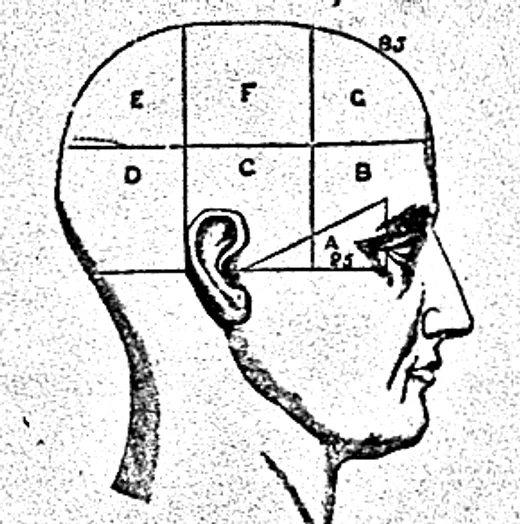
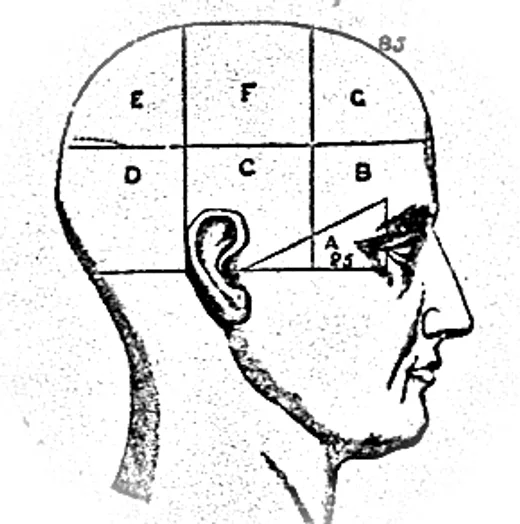
feat(web): section art program + electric pricing field
Every remaining section gets a meaningful, captioned visual — no decoration
without an explanation (the museum-catalog rule):

- № 01 The problem: three phrenological head views (front/top/profile,
  Wellcome V0009485, flat-fielded like the hero) labeled "what Claude /
  ChatGPT / Cursor knows" — fig. 2, three tools, three partial strangers
- № 02 How it works: PipelineStrip — the whole system as one drawn line
  (chats/code/git → persnallyd on your machine → Claude/Cursor/agents),
  instrument style, blue flow arrows
- № 04 Under the hood: the provenance card's evidence list becomes a
  connected tree — blue spine + elbows from the claim to its 3 events
- № 07 The difference: emblem doubled to 210px with fig-caption ("the
  model of you, measured — held by its subject"); reprocessed with edge
  fade so the crop boundary melts into the page
- № 08 Pricing: the page's one full-bleed color moment — the electric
  field (Hermes-style), paper serif display, FREE·PRO·TEAMS ladder,
  paper plates on ultramarine; ProCard drops its (invisible-on-blue)
  electric border

Compare/trust/see-the-difference deliberately stay art-free: the table
and terminals ARE their visuals. Footer credit covers both Wellcome
plates.

diff --git a/web/src/app/page.tsx b/web/src/app/page.tsx
@@ -267,6 +267,24 @@ function Wedge() {
             every session. Each tool meets you as a stranger — and the vendors can&apos;t fix it,
             because their business is keeping you inside their walls.
           </p>
+          <figure className="mt-10">
+            <div className="grid grid-cols-3 items-end gap-4 bg-paper">
+              {[
+                { src: "/art/head-front.webp", tool: "what Claude knows" },
+                { src: "/art/head-top.webp", tool: "what ChatGPT knows" },
+                { src: "/art/head-profile.webp", tool: "what Cursor knows" },
+              ].map((h) => (
+                <div key={h.src} className="text-center">
+                  {/* eslint-disable-next-line @next/next/no-img-element */}
+                  <img src={h.src} alt="" aria-hidden width={480} height={480} className="mx-auto w-full max-w-[150px] mix-blend-multiply" />
+                  <p className="mt-2 font-mono text-[10px] uppercase tracking-[0.1em] text-mute">{h.tool}</p>
+                </div>
+              ))}
+            </div>
+            <figcaption className="mt-4 border-t border-ink/30 pt-3 font-mono text-[10px] uppercase tracking-[0.14em] text-mute">
+              Fig. 2 — three tools, three partial strangers. The same you.
+            </figcaption>
+          </figure>
         </div>
         <RepetitionFeed />
       </div>
@@ -275,6 +293,45 @@ function Wedge() {
 }
 
 /* ── № 02 · How it works ─────────────────────────────────────── */
+
+/* the whole system in one drawn line: your history → the daemon on your
+   machine → every AI. Same instrument language as the gauge. */
+function PipelineStrip() {
+  const src = ["your chats", "your code", "your git"];
+  const dst = ["Claude", "Cursor", "your agents"];
+  return (
+    <svg viewBox="0 0 900 150" role="img" aria-label="Your chats, code, and git flow into the persnallyd daemon on your machine, and out to Claude, Cursor, and your agents" className="mt-10 hidden w-full text-ink md:block">
+      {src.map((s, i) => (
+        <g key={s}>
+          <text x={120} y={35 + i * 40} textAnchor="end" className="font-mono" fontSize={15} fill="currentColor" opacity={0.7}>
+            {s}
+          </text>
+          <path d={`M 132 ${30 + i * 40} L 210 ${30 + i * 40} L 260 70 L 330 70`} fill="none" stroke="var(--color-electric)" strokeWidth={1.5} opacity={0.75} />
+        </g>
+      ))}
+      <rect x={335} y={38} width={230} height={64} fill="none" stroke="currentColor" strokeWidth={1.5} />
+      <rect x={341} y={44} width={218} height={52} fill="none" stroke="currentColor" strokeWidth={0.75} opacity={0.4} />
+      <text x={450} y={66} textAnchor="middle" className="font-mono" fontSize={16} fill="currentColor">
+        persnallyd
+      </text>
+      <text x={450} y={86} textAnchor="middle" className="font-mono" fontSize={11.5} fill="var(--color-electric)">
+        on your machine
+      </text>
+      {dst.map((d, i) => (
+        <g key={d}>
+          <path d={`M 570 70 L 640 ${30 + i * 40} L 700 ${30 + i * 40}`} fill="none" stroke="var(--color-electric)" strokeWidth={1.5} opacity={0.75} />
+          <path d={`M 700 ${30 + i * 40} l -9 -4.5 v 9 z`} fill="var(--color-electric)" opacity={0.85} />
+          <text x={712} y={35 + i * 40} className="font-mono" fontSize={15} fill="currentColor" opacity={0.85}>
+            {d}
+          </text>
+        </g>
+      ))}
+      <text x={450} y={138} textAnchor="middle" className="font-mono" fontSize={11} fill="currentColor" opacity={0.55}>
+        one model of you · read everywhere · written nowhere else
+      </text>
+    </svg>
+  );
+}
 
 function HowItWorks() {
   const steps = [
@@ -303,8 +360,9 @@ function HowItWorks() {
   return (
     <Section id="how" className="py-24">
       <SectionHead n="02" eyebrow="How it works" title="Your context, in every tool you touch." />
+      <PipelineStrip />
 
-      <div className="mt-12 grid gap-5 lg:grid-cols-3">
+      <div className="mt-10 grid gap-5 lg:grid-cols-3">
         {steps.map((s) => (
           <div key={s.k} className="plate flex flex-col p-6">
             <div className="flex items-baseline justify-between border-b border-ink/20 pb-4">
@@ -598,11 +656,22 @@ function Engine() {
               ↳ why does it think this? <span className="ml-1 text-faint">3 events</span>
             </p>
           </div>
-          <ul className="mt-4 space-y-2.5 border-l border-ink/25 pl-4 font-mono text-[12px] text-mute">
-            <li>#128 · imported 142 Claude conversations</li>
-            <li>#412 · vetoed telemetry without consent</li>
-            <li>#087 · chose local-first storage</li>
+          {/* the claim hangs from its evidence — the hero's leader-line language */}
+          <ul className="ml-6 border-l-2 border-electric/50 font-mono text-[12px] text-mute">
+            {[
+              ["#128", "imported 142 Claude conversations"],
+              ["#412", "vetoed telemetry without consent"],
+              ["#087", "chose local-first storage"],
+            ].map(([id, t]) => (
+              <li key={id} className="relative py-2 pl-5">
+                <span aria-hidden className="absolute left-0 top-1/2 h-px w-3.5 bg-electric/50" />
+                <span className="text-electric">{id}</span> · {t}
+              </li>
+            ))}
           </ul>
+          <p className="ml-6 pt-1 font-mono text-[10px] uppercase tracking-[0.12em] text-faint">
+            3 events · 0 guesses · each one deletable
+          </p>
         </div>
 
         <div className="plate p-6 lg:col-span-2">
@@ -830,16 +899,20 @@ function Positioning() {
   return (
     <Section className="py-24">
       <SectionHead n="07" eyebrow="The difference" title={<></>} center />
-      {/* eslint-disable-next-line @next/next/no-img-element */}
-      <img
-        src="/art/geometric-head.webp"
-        alt=""
-        aria-hidden
-        width={140}
-        height={140}
-        className="mx-auto -mt-2 w-[120px] mix-blend-multiply opacity-90"
-      />
-      <p className="font-display mx-auto mt-4 max-w-3xl text-balance text-center text-4xl leading-[1.05] sm:text-6xl">
+      <figure className="mx-auto -mt-2 w-fit text-center">
+        {/* eslint-disable-next-line @next/next/no-img-element */}
+        <img
+          src="/art/geometric-head.webp"
+          alt="Engraving of a head divided into measured, lettered sections"
+          width={240}
+          height={240}
+          className="mx-auto w-[210px] mix-blend-multiply"
+        />
+        <figcaption className="mt-1 font-mono text-[10px] uppercase tracking-[0.14em] text-mute">
+          Fig. 6 — the model of you, measured. Held by its subject.
+        </figcaption>
+      </figure>
+      <p className="font-display mx-auto mt-8 max-w-3xl text-balance text-center text-4xl leading-[1.05] sm:text-6xl">
         Every AI knows <span className="text-mute">you.</span> And it&apos;s <Em>yours.</Em>
       </p>
 
@@ -889,48 +962,59 @@ function Pricing() {
     "The dashboard: inspect, audit provenance, delete",
     "Bring your own key, or run fully local with Ollama",
   ];
+  // The page's one full-bleed color moment: pricing on the electric field.
   return (
-    <Section id="pricing" className="py-24">
-      <SectionHead
-        n="08"
-        eyebrow="Pricing"
-        title="The engine is free. Forever."
-        lede="Everything that touches your data runs on your machine, free. Pro adds cloud conveniences — carrying ciphertext only, never your plaintext."
-        center
-      />
-
-      <div className="mx-auto mt-12 grid max-w-3xl gap-5 md:grid-cols-2">
-        <div className="plate flex flex-col p-7">
-          <p className="font-mono text-[11px] uppercase tracking-[0.16em] text-faint">Free</p>
-          <p className="font-display mt-3 text-4xl text-ink">
-            $0 <span className="text-lg text-faint">forever</span>
+    <section id="pricing" className="bg-electric py-24 text-paper">
+      <div className="mx-auto w-full max-w-6xl px-6">
+        <div className="border-t border-paper/70 pt-7 text-center">
+          <span className="font-mono text-[11px] uppercase tracking-[0.22em] text-paper/70">
+            <span className="text-paper">№ 08</span> — Pricing
+          </span>
+          <h2 className="font-display mx-auto mt-6 max-w-3xl text-balance text-4xl leading-[1.02] sm:text-6xl">
+            The engine is free. <em className="italic">Forever.</em>
+          </h2>
+          <p className="mt-5 font-mono text-[12px] uppercase tracking-[0.22em] text-paper/70">
+            Free · Pro · Teams later
           </p>
-          <ul className="mt-6 space-y-3.5">
-            {free.map((x) => (
-              <li key={x} className="flex items-start gap-3 text-[15px] text-mute">
-                <Check className="mt-0.5 size-4 shrink-0 text-electric" strokeWidth={2} />
-                {x}
-              </li>
-            ))}
-          </ul>
-          <div className="mt-auto pt-7">
-            <a
-              href="#start"
-              className="block border border-ink px-4 py-2.5 text-center font-mono text-[12px] uppercase tracking-[0.14em] text-ink transition-colors hover:bg-ink hover:text-paper"
-            >
-              Install now
-            </a>
-          </div>
+          <p className="mx-auto mt-5 max-w-2xl text-lg leading-relaxed text-paper/80">
+            Everything that touches your data runs on your machine, free. Pro adds cloud
+            conveniences — carrying ciphertext only, never your plaintext.
+          </p>
         </div>
 
-        <ProCard />
-      </div>
+        <div className="mx-auto mt-12 grid max-w-3xl gap-5 md:grid-cols-2">
+          <div className="plate flex flex-col p-7">
+            <p className="font-mono text-[11px] uppercase tracking-[0.16em] text-faint">Free</p>
+            <p className="font-display mt-3 text-4xl text-ink">
+              $0 <span className="text-lg text-faint">forever</span>
+            </p>
+            <ul className="mt-6 space-y-3.5">
+              {free.map((x) => (
+                <li key={x} className="flex items-start gap-3 text-[15px] text-mute">
+                  <Check className="mt-0.5 size-4 shrink-0 text-electric" strokeWidth={2} />
+                  {x}
+                </li>
+              ))}
+            </ul>
+            <div className="mt-auto pt-7">
+              <a
+                href="#start"
+                className="block border border-ink px-4 py-2.5 text-center font-mono text-[12px] uppercase tracking-[0.14em] text-ink transition-colors hover:bg-ink hover:text-paper"
+              >
+                Install now
+              </a>
+            </div>
+          </div>
 
-      <p className="mx-auto mt-10 max-w-xl text-center text-[15px] italic leading-relaxed text-faint">
-        Privacy is never the paid tier. The local engine, the dashboard, and deletion stay free —
-        Pro is convenience on top, not a wall around your own data.
-      </p>
-    </Section>
+          <ProCard />
+        </div>
+
+        <p className="mx-auto mt-10 max-w-xl text-center text-[15px] italic leading-relaxed text-paper/75">
+          Privacy is never the paid tier. The local engine, the dashboard, and deletion stay free —
+          Pro is convenience on top, not a wall around your own data.
+        </p>
+      </div>
+    </section>
   );
 }
 
@@ -998,7 +1082,8 @@ function Footer() {
 
       <Section className="pt-8">
         <p className="font-mono text-[10px] leading-relaxed text-faint">
-          Engravings: “Chart of Mental Geometry” (Frederick Bridges, c. 1860) —{" "}
+          Engravings: “Chart of Mental Geometry” (Frederick Bridges, c. 1860) and phrenological
+          plates —{" "}
           <a
             href="https://wellcomecollection.org/works"
             {...EXT}

diff --git a/web/src/app/_components/ProCard.tsx b/web/src/app/_components/ProCard.tsx
@@ -20,7 +20,7 @@ export function ProCard() {
   const amount = annual ? ANNUAL_PER_MONTH : MONTHLY;
 
   return (
-    <div className="plate flex flex-col border-electric p-7">
+    <div className="plate flex flex-col p-7">
       <div className="flex items-center justify-between">
         <p className="font-mono text-[11px] uppercase tracking-[0.16em] text-electric">Pro</p>
         <span className="border border-electric/40 px-2.5 py-0.5 font-mono text-[10px] uppercase tracking-[0.12em] text-electric">
